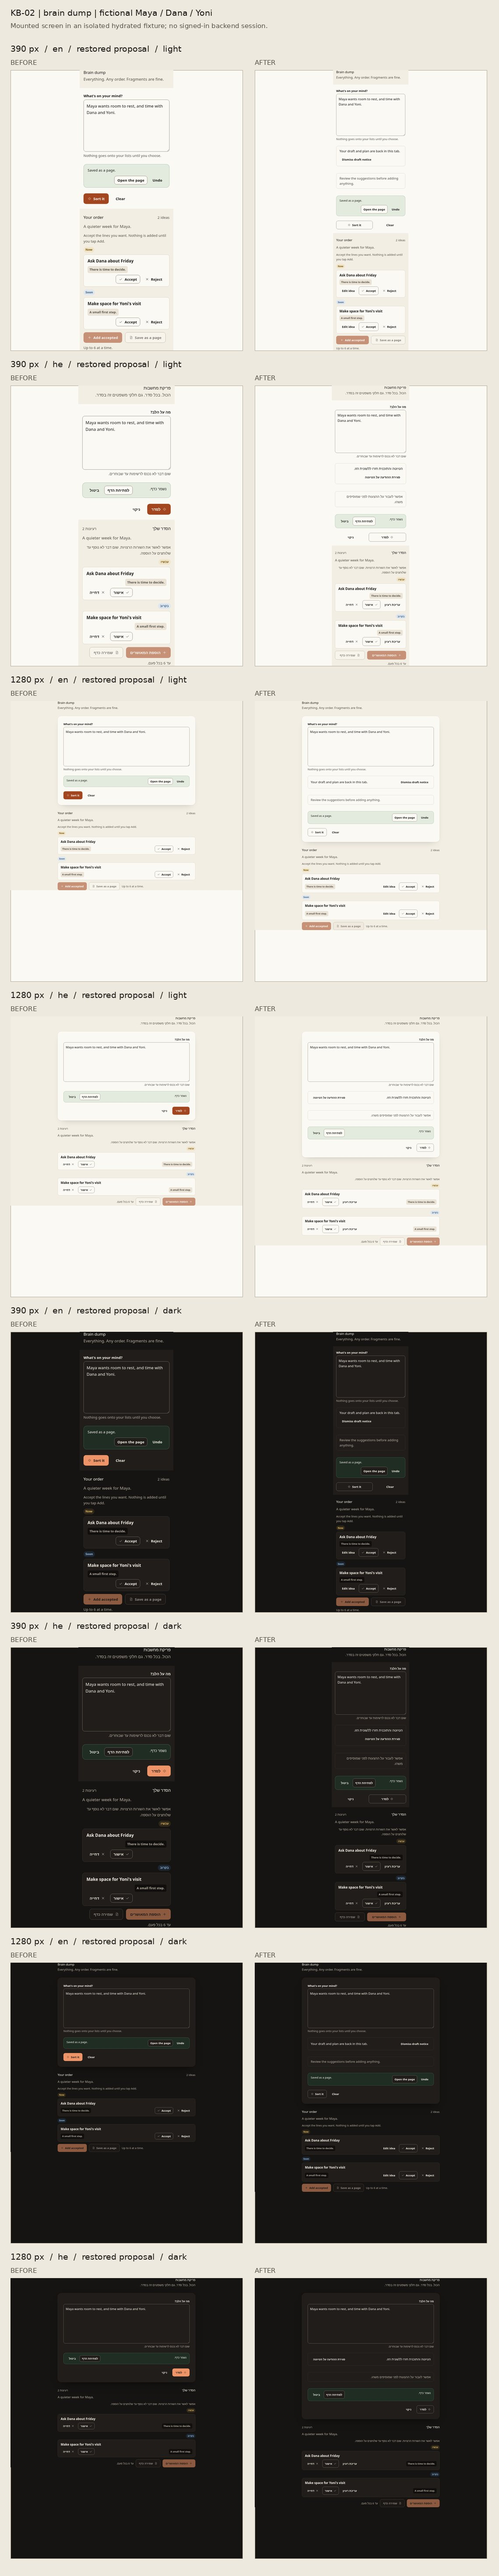
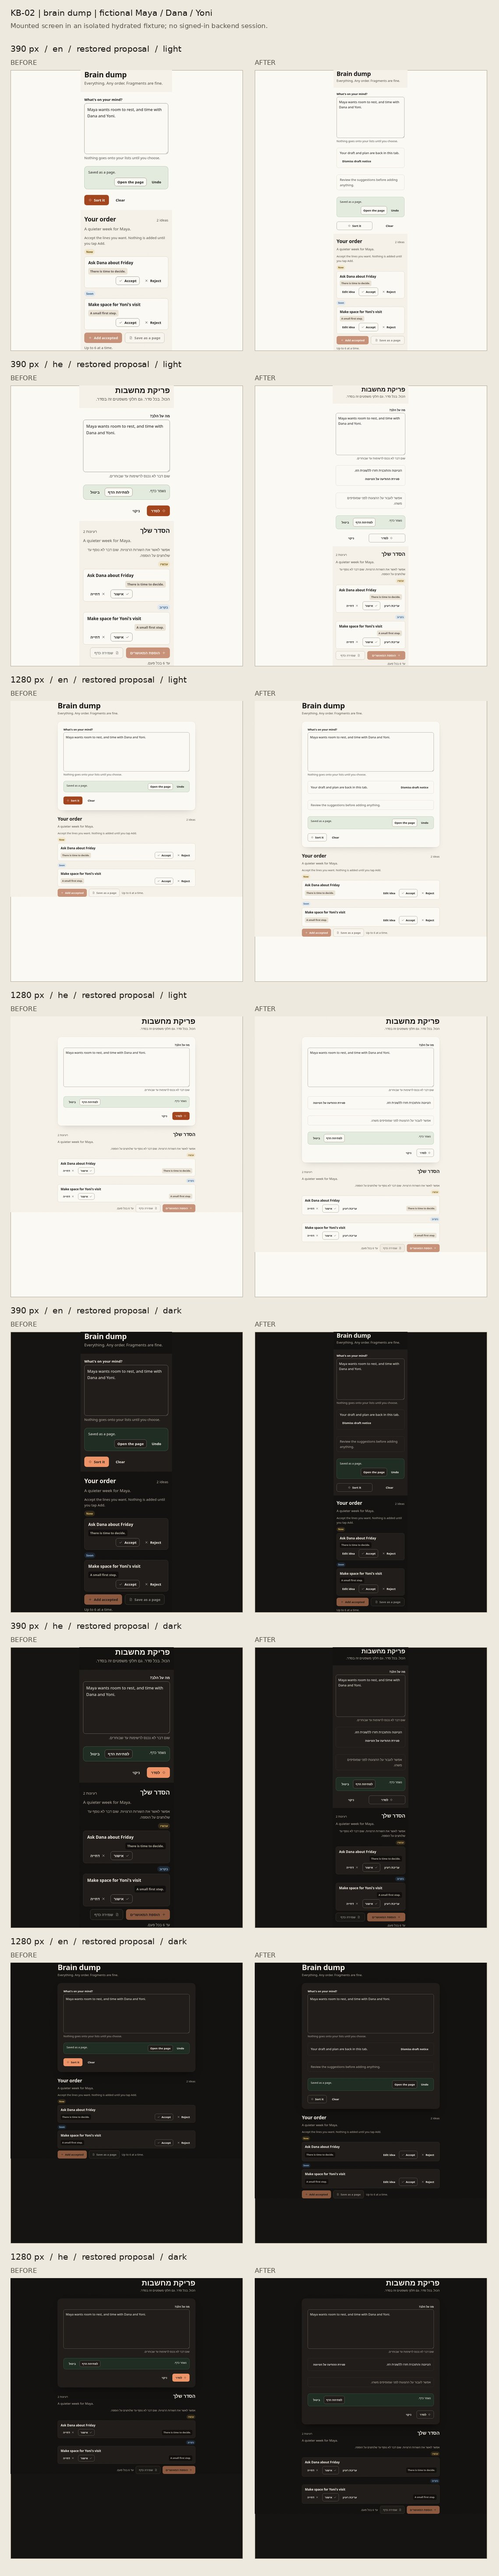
docs(kb-02): record repaired focus and motion evidence

diff --git a/docs/polish/evidence/kb-02-brain-dump-keeps-the-draft-and-makes-the-next-step-clear.md b/docs/polish/evidence/kb-02-brain-dump-keeps-the-draft-and-makes-the-next-step-clear.md
@@ -1,10 +1,62 @@
 # KB-02 brain dump evidence
 
-Source commits: first production change `1dd30ac53dcb6463ca93b1e5bfea9b203e79f749`, latest source/test revision `adf589515a8276a8c66b161d6cd14cc8c68cc3cb` (`t/1153-kb-02`). The [contact sheet](kb-02-brain-dump-keeps-the-draft-and-makes-the-next-step-clear.jpg) compares the original mounted `BrainDumpScreen` saved before editing with the changed mounted screen at 390 and 1280 px, English and Hebrew, light and dark. Each image uses fictional Maya, Dana and Yoni data. The screen, its pure helpers, i18n, icons, and v3 styles are production modules; Convex data/actions/mutations, locale context and Next link are fixture stubs. The fixture uses local font fallback. No real account or backend is exercised, and labels appear only on the evidence sheet.
+Source commits: first production change `1dd30ac53dcb6463ca93b1e5bfea9b203e79f749`, previous source/test revision `adf589515a8276a8c66b161d6cd14cc8c68cc3cb` (`t/1153-kb-02`). The [contact sheet](kb-02-brain-dump-keeps-the-draft-and-makes-the-next-step-clear.jpg) compares the original mounted `BrainDumpScreen` saved before editing with the changed mounted screen at 390 and 1280 px, English and Hebrew, light and dark. Each image uses fictional Maya, Dana and Yoni data. The screen, its pure helpers, i18n, icons, and v3 styles are production modules; Convex data/actions/mutations, locale context and Next link are fixture stubs. The fixture uses local font fallback. No real account or backend is exercised, and labels appear only on the evidence sheet.
+
+## Authorized extra repair — 2026-10-21
+
+The owner authorized one additional cohesive repair pass without changing the acceptance checks. Fixture/test source commit: `3093bb44abb2ae1fd68ff49bc1b02c08d0ad1f61`; production logic, dictionaries and CSS remain at the previously recorded revision. This pass addresses CodeRabbit discussions [4335174361](https://github.com/Levidavidspublic/tempo-rhythm/pull/1160#discussion_r4335174361) and [4335174381](https://github.com/Levidavidspublic/tempo-rhythm/pull/1160#discussion_r4335174381).
+
+The original assertions were reproduced before repair: 0 pass, 2 fail, 9 filtered. The focused button matched `:focus-visible`, but its computed outline was `none`, its box shadow was `none`, and `--color-ring` was empty while `--tp-accent` was defined. The fixture served raw Tailwind `@theme` declarations, which browsers ignore. Compiling the existing application CSS with the installed application PostCSS/Tailwind pipeline restores the real application's resolved focus token; no production focus CSS was added. Fixture bundles and HTML now stay under ignored `work/`, as the ticket requires.
+
+The repaired test keeps the keyboard assertion and strengthens it to require an opaque, visible, solid outline at least 2 px wide with a 2 px gap and measured contrast of at least 3:1. All eight width/language/theme combinations pass. Computed light focus is `rgb(163, 70, 31)` against `rgb(243, 238, 228)`, 5.2593:1; dark focus is `rgb(238, 148, 104)` against `rgb(22, 20, 18)`, 7.9370:1. The 390 px English/light and Hebrew/dark gallery captures were visually inspected: the focused Empty control has a clear ring, and the phone layout and RTL controls remain within the viewport.
+
+The global reduced-motion rule intentionally sets an important `0.01ms` duration, serialized by Chromium as `1e-05s`. The new assertions normalize units and require that exact duration for both the capture status and recovery notice. They also require `transition-property: none`, `animation-name: none`, iteration count 1, and zero active animations. This preserves instant reduced-motion behavior without accepting a broad tolerance or removing motion coverage.
+
+The existing clean-child isolation is preserved: a normal full-suite import defines wrapper cases, spawns exactly this test file with `KB02_ISOLATED=1`, and fails the suite on a nonzero child exit. All `Bun.build`, `Bun.serve` and browser setup stays inside that child. The standalone original-screen capture uses its own dedicated process. No assertions, CI configuration or other ticket fixtures were removed or changed to obtain these results.
+
+Fresh screenshots and measured JSON are under `/workspace/work/kb-finish/kb02/after/`; corrected original-screen screenshots are under `before/`. The scoped contact sheet was regenerated from both compiled-CSS fixtures at 390/1280 px, en/he, light/dark. No real account, backend action or runtime model was exercised. Hebrew remains machine-drafted for native review; device screen-reader verification remains UNKNOWN.
+
+### Test results (cloud agent sandbox) — authorized repair
+
+| Command | Exit and result |
+|---|---|
+| `bun --version` | exit 0; `1.3.9`, reconfirmed 2026-10-21 UTC. |
+| `bun install --frozen-lockfile` | UNKNOWN; bounded at 120 seconds, exit 124, still at registry resolution. |
+| `bun run lint` | exit 0; 5/5 tasks, 0 errors; 9 existing web warnings. |
+| `bun run typecheck` | exit 0; 5/5 tasks. |
+| `bun test tests/unit/kb-02.test.tsx` | exit 0; 11 pass, 0 fail, 11 outer assertions. The isolated child completed successfully; all eight focus/motion metric files and 16 screen/gallery captures were produced. |
+| Original-screen capture case | exit 0; 1 pass, 0 fail, 10 filtered, 24 assertions; all eight original-screen captures produced. |
+| `bun run test` | Pending in the root-owned validation runner. |
+| `bun run scan:forbidden-tech` | Pending in the root-owned validation runner. |
+| `bun run scan:ram-only-audit` | Pending in the root-owned validation runner. |
+| `bun run scan:design-tokens` | Pending in the root-owned validation runner. |
+| `bun run check:notices` | Pending in the root-owned validation runner. |
+| `CI=1 bunx playwright test --reporter=line` | Pending in the root-owned validation runner; unchanged route wiring is included. |
+| `NEXT_PUBLIC_CONVEX_URL=https://example.convex.cloud bun run build` | Pending in the root-owned validation runner. |
+
+The root agent owns remaining mandatory validation and will append its exact outcomes before integration. This evidence records a successful scoped repair, not completed integration or production verification. Root review/CI/merge gates remain required.
+
+```text
+status: blocked
+ticket: #1153
+evidence: focused KB-02 fixture 11 pass/0 fail; eight cells prove 2px focus at 5.2593:1 light and 7.9370:1 dark, exact 0.01ms reduced durations with no active animations; broad validation pending
+changed: scoped KB-02 test and evidence artifacts in this authorized pass
+unknowns: exact frozen install; pending broad gates and current CI/review; signed-in backend; device screen reader
+notes for ticket sync: one extra repair pass authorized by owner; no acceptance checks waived; accepted-task Undo remains outside this ticket; Hebrew machine-drafted for native review
+```
+
+Frozen-install output (the complete output, fewer than 20 lines):
+
+```text
+bun install v1.3.9 (cf6cdbbb)
+Resolving dependencies
+```
+
+The earlier evidence and failures below are retained as historical records; the successful focus/motion results above supersede those two earlier failures only.
 
 The original screen preserved a draft and showed the sorted proposal but left the recovery and sorting state implicit. The changed screen mounts `CaptureStatus` beside the draft, adds a quiet `DraftRecoveryNotice` only for genuinely restored content, and returns focus to the draft when it is dismissed. A pending sort keeps the draft visible and temporarily disables dismissal until focus can return. Before accepting an idea, a person can edit its title locally; Save, Cancel and Escape restore focus to the Edit control. The existing Sort, Accept, Add, Save as a page and page Undo mutation calls and argument expressions are unchanged. Open and Undo for a saved page remain keyboard reachable while its removal request is pending. The proposal has one primary Add action, while Sort becomes secondary once a proposal exists.
 
-The interactive `Kb02Gallery` uses the same production views with controlled fictional values for Default, Empty, Loading, Error, Offline, Disabled and Long text. Its controls, language switch, retry callback, disabled action and focus return were exercised in a hydrated browser before the last two assertions were added. All eight after gallery screenshots (390/1280, en/he, light/dark) remain temporary fixture outputs under `/workspace/work/kb-02-capture/after`, not a product route. At 390 px the previously tested controls were at least 44 px high and long text fit without horizontal scrolling. Both the screen and gallery have one `main` and one `h1` in the isolated fixture. Hebrew direction is RTL and user text retains `dir="auto"`; light/dark use v3 tokens. The final focus-style and exact reduced-motion duration assertions failed in CI, so those details are not verified by this evidence.
+The interactive `Kb02Gallery` uses the same production views with controlled fictional values for Default, Empty, Loading, Error, Offline, Disabled and Long text. Its controls, language switch, retry callback, disabled action and focus return were exercised in a hydrated browser before the last two assertions were added. All eight after gallery screenshots (390/1280, en/he, light/dark) remain temporary fixture outputs under `/workspace/work/kb-02-capture/after`, not a product route. At 390 px the previously tested controls were at least 44 px high and long text fit without horizontal scrolling. Both the screen and gallery have one `main` and one `h1` in the isolated fixture. Hebrew direction is RTL and user text retains `dir="auto"`; light/dark use v3 tokens. In that earlier pass, the final focus-style and exact reduced-motion duration assertions failed in CI, so those details were unverified at that point.
 
 New named cases in `tests/unit/kb-02.test.tsx`:
 
@@ -20,7 +72,7 @@ New named cases in `tests/unit/kb-02.test.tsx`:
 10. English and Hebrew new keys match
 11. mounted screen and gallery fit phone and desktop in both languages and themes
 
-## Test results (cloud agent sandbox)
+## Previous test results (cloud agent sandbox) — before the authorized extra pass
 
 Validation completed on unchanged source/test revision `adf589515a8276a8c66b161d6cd14cc8c68cc3cb`. Counts distinguish the outer suite from its isolated browser child; wrapper cases after the first one do not rerun the browser cases. Non-test checks have no test pass/fail/skip count.
 
